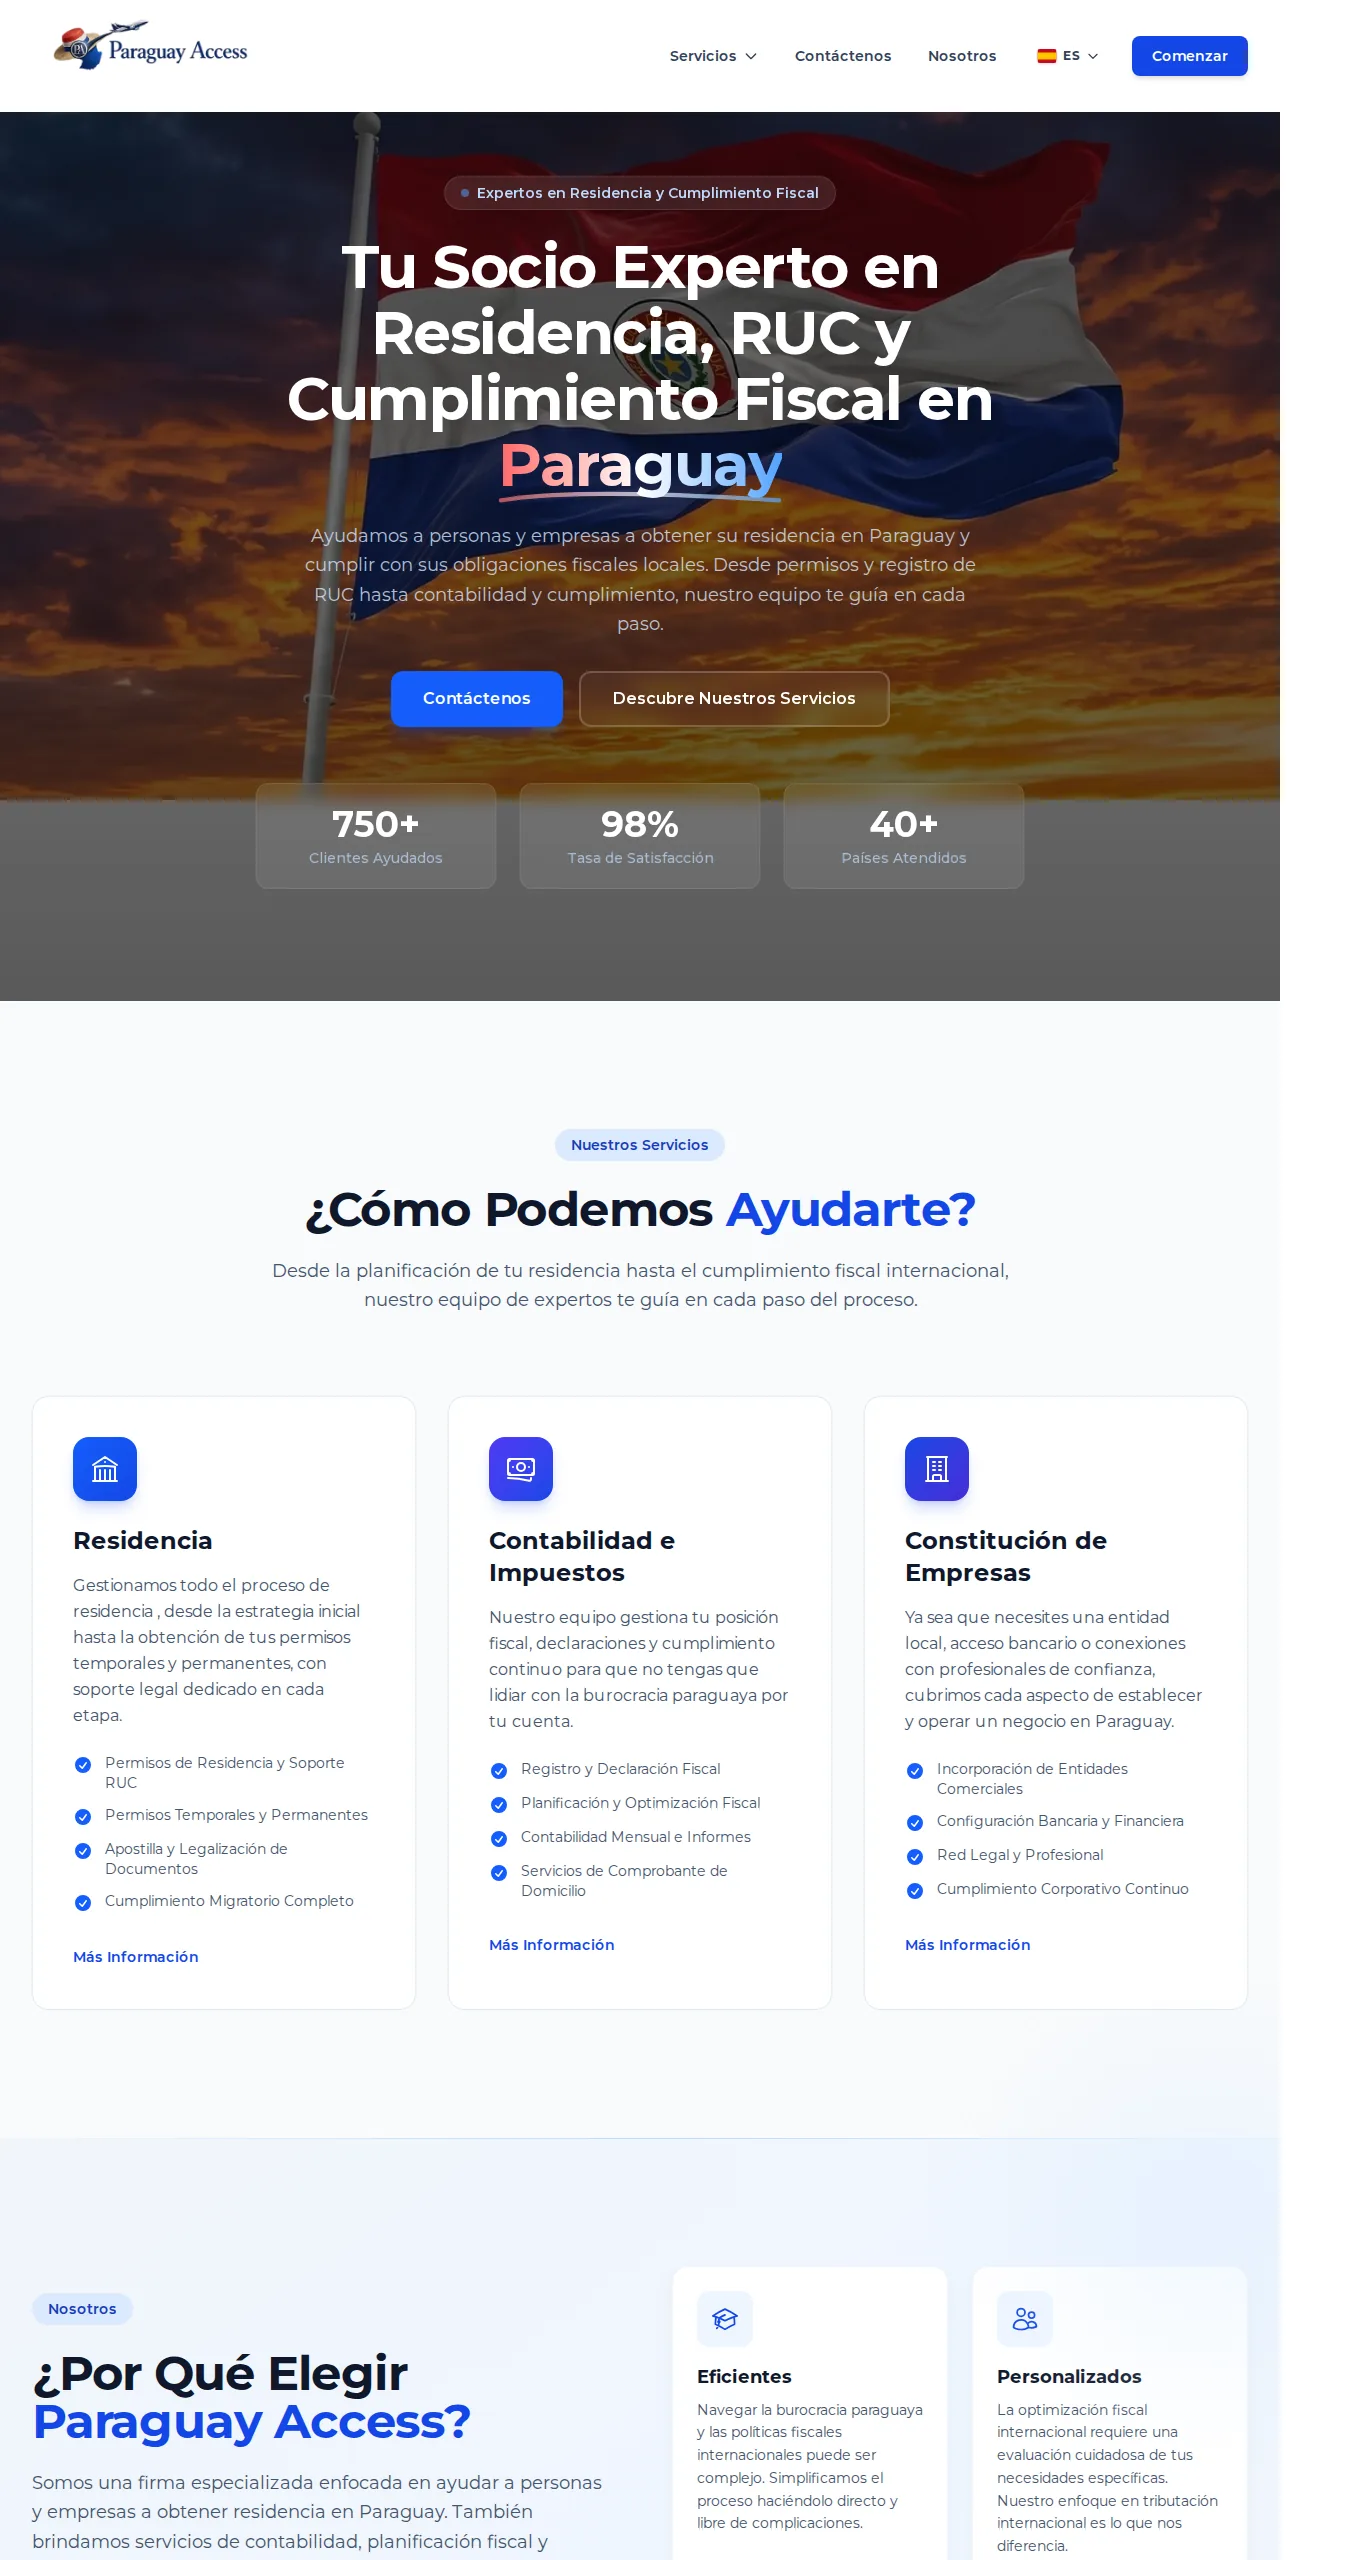
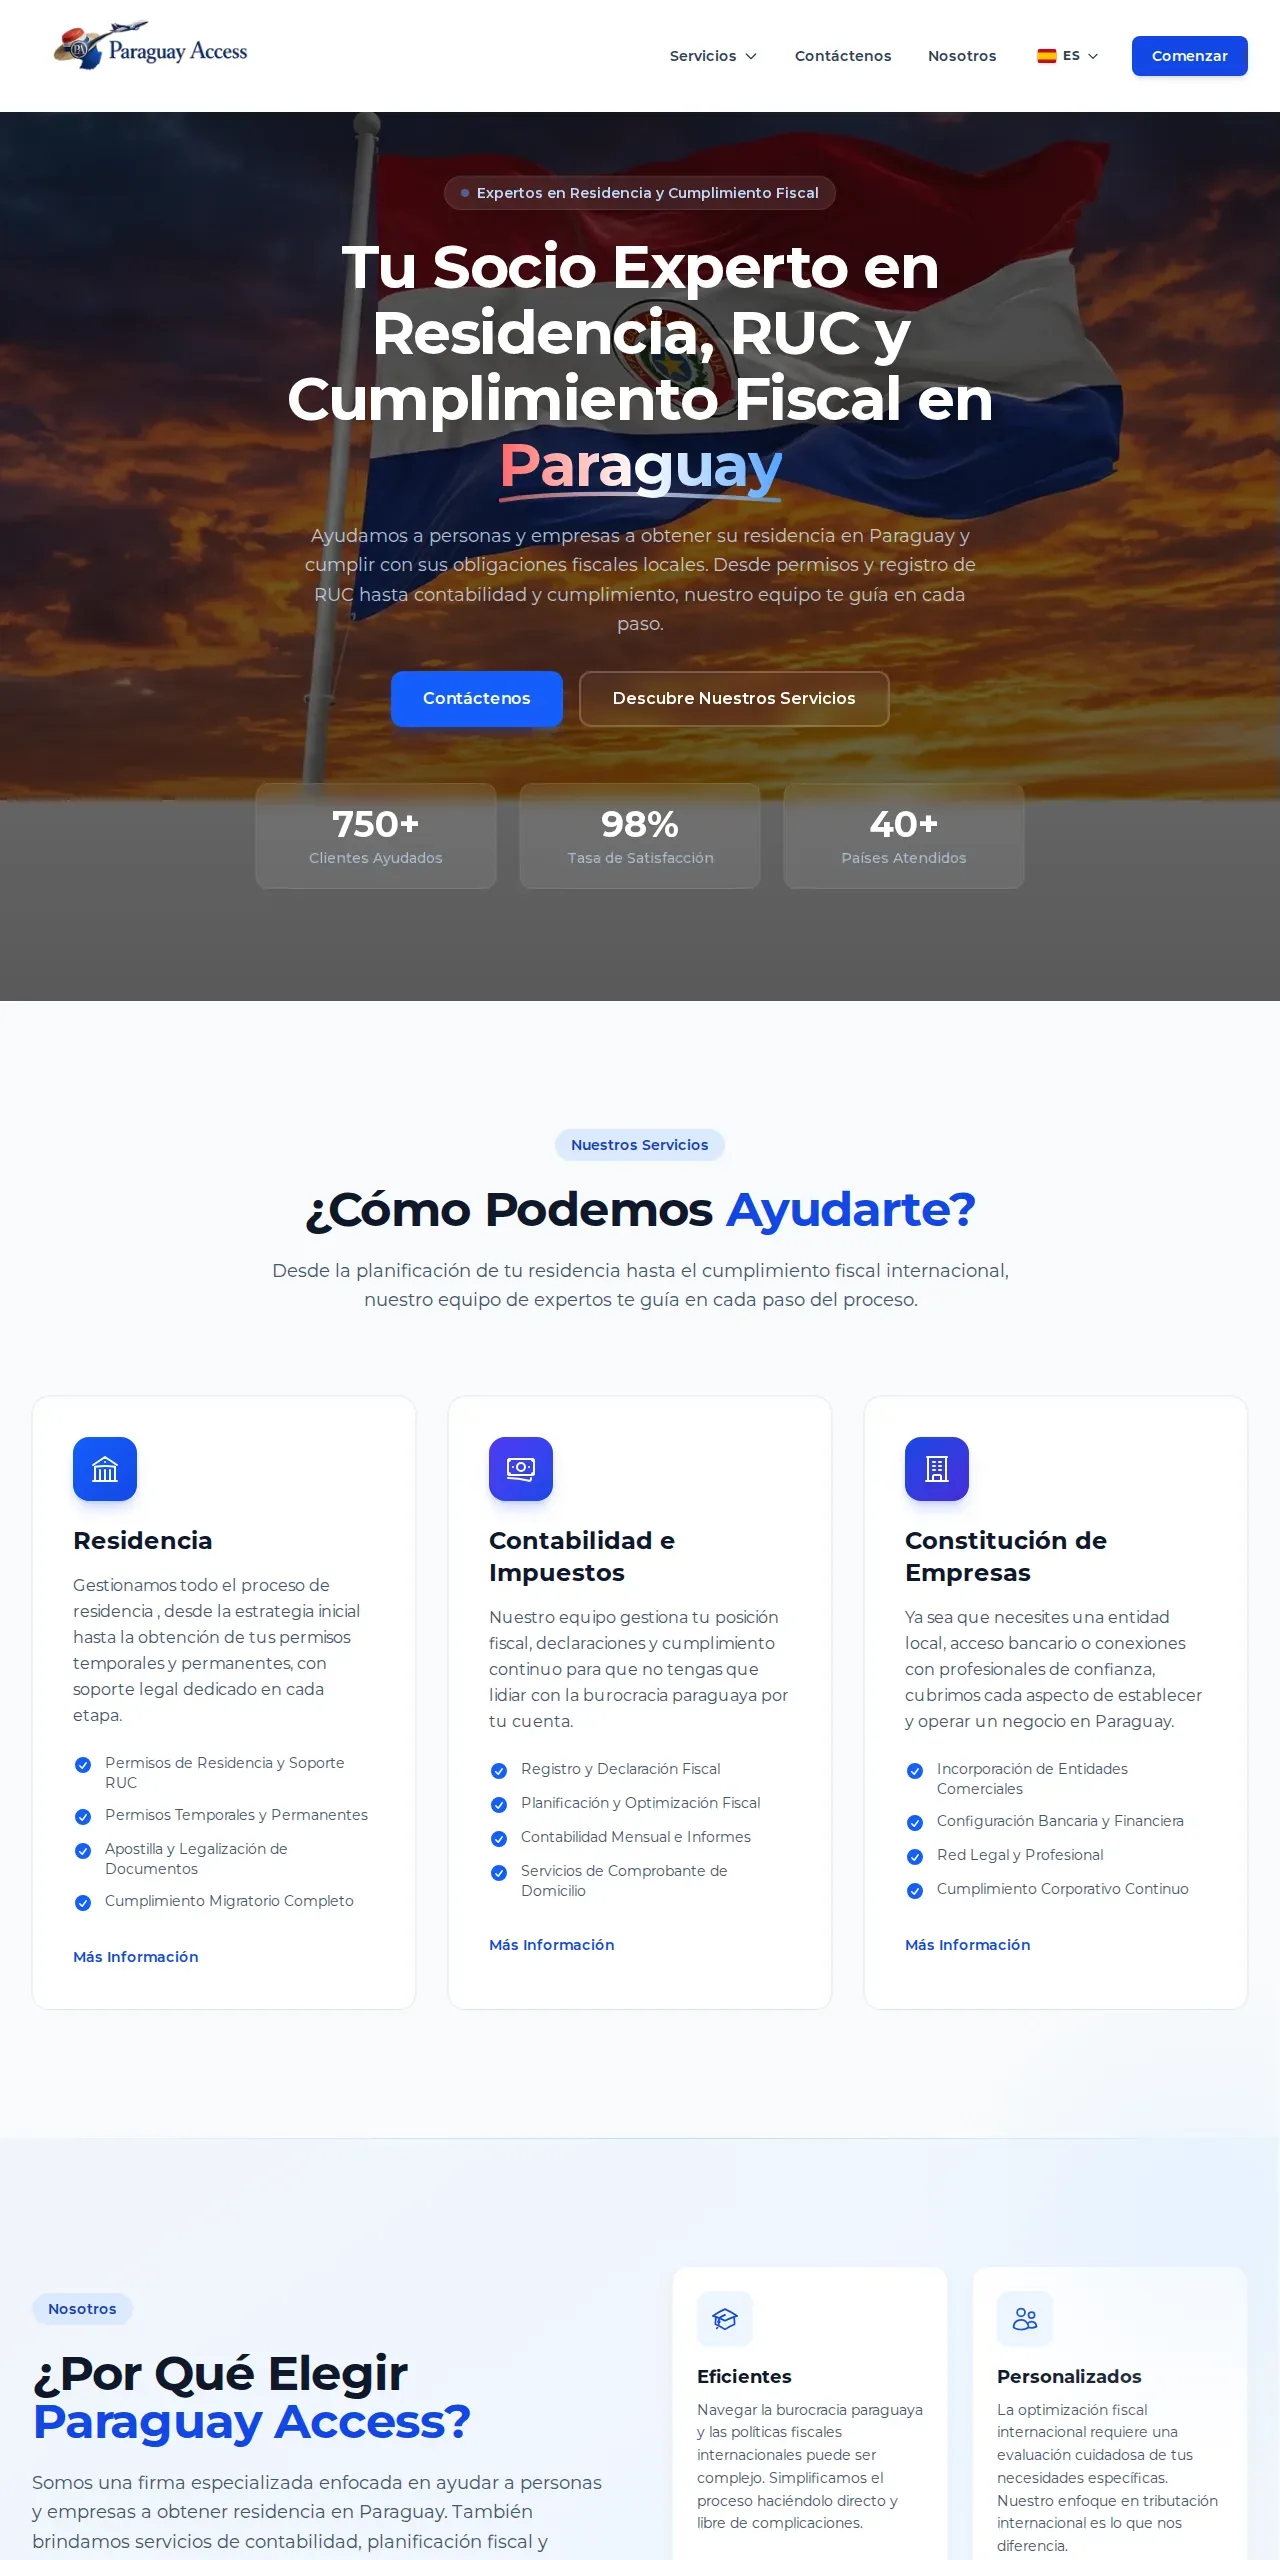
Quita la barra de scroll capturada en la imagen de ParaguayAccess
La franja blanca del borde derecho no era un problema de maquetación: estaba
grabada en el archivo. La captura se tomó con un viewport de 1360px y el
navegador dejó dentro sus 80px de barra de desplazamiento; las otras tres se
capturaron a 1280 y por eso no la tenían.

Se recortan esos 80px exactos, con lo que la imagen queda en 1280x2560 y las
cuatro pasan a tener la misma proporción.

De paso: los atributos width/height del <img> declaraban 720 de alto para
systempro cuando el archivo mide 2560. Un tamaño intrínseco equivocado hace que
el navegador reserve una caja de proporción distinta a la real y provoque salto
de layout al cargar. Corregido en las cuatro superficies que muestran proyectos.

Verificado: natural y declarado coinciden en las cuatro imágenes.

diff --git a/src/pages/Cases.jsx b/src/pages/Cases.jsx
@@ -44,7 +44,7 @@ export default function Cases() {
             {projects.map((project, index) => (
               <article key={project.id} className={`case-feature ${index % 2 ? "lg:[&>.case-media]:order-2" : ""}`}>
                 <div className="case-media">
-                  <img src={project.image} alt={`Vista del proyecto ${project.title}`} width="1280" height={project.id === "systempro" ? "720" : "2560"} loading={index < 2 ? "eager" : "lazy"} decoding="async" className="h-full w-full object-cover object-top" />
+                  <img src={project.image} alt={`Vista del proyecto ${project.title}`} width="1280" height="2560" loading={index < 2 ? "eager" : "lazy"} decoding="async" className="h-full w-full object-cover object-top" />
                   {project.url && (
                     <a href={project.url} target="_blank" rel="noopener noreferrer" aria-label={`Abrir ${project.title}`} className="absolute right-4 top-4 grid h-11 w-11 place-items-center rounded-xl bg-black/65 text-white backdrop-blur-sm">
                       <ExternalLink className="h-4 w-4" aria-hidden="true" />

diff --git a/src/pages/ServicePage.jsx b/src/pages/ServicePage.jsx
@@ -153,7 +153,7 @@ export default function ServicePage({ serviceKey }) {
               <span className="eyebrow">Caso relacionado</span>
               <article className="case-feature mt-8">
                 <div className="case-media">
-                  <img src={project.image} alt={`Vista del proyecto ${project.title}`} width="1280" height={project.id === "systempro" ? "720" : "2560"} loading="lazy" className="h-full w-full object-cover object-top" />
+                  <img src={project.image} alt={`Vista del proyecto ${project.title}`} width="1280" height="2560" loading="lazy" className="h-full w-full object-cover object-top" />
                 </div>
                 <div className="flex flex-col justify-center p-7 sm:p-10">
                   <p className="font-mono text-[10px] uppercase tracking-[0.18em] text-primary">{project.industry}</p>

diff --git a/src/components/landing/CaseStudies.jsx b/src/components/landing/CaseStudies.jsx
@@ -41,7 +41,7 @@ export default function CaseStudies() {
                   src={project.image}
                   alt={`Vista del proyecto ${project.title}`}
                   width="1280"
-                  height={project.id === "systempro" ? "720" : "2560"}
+                  height="2560"
                   loading="lazy"
                   decoding="async"
                   className="h-full w-full object-cover object-top transition-transform duration-500 group-hover:scale-[1.025]"
